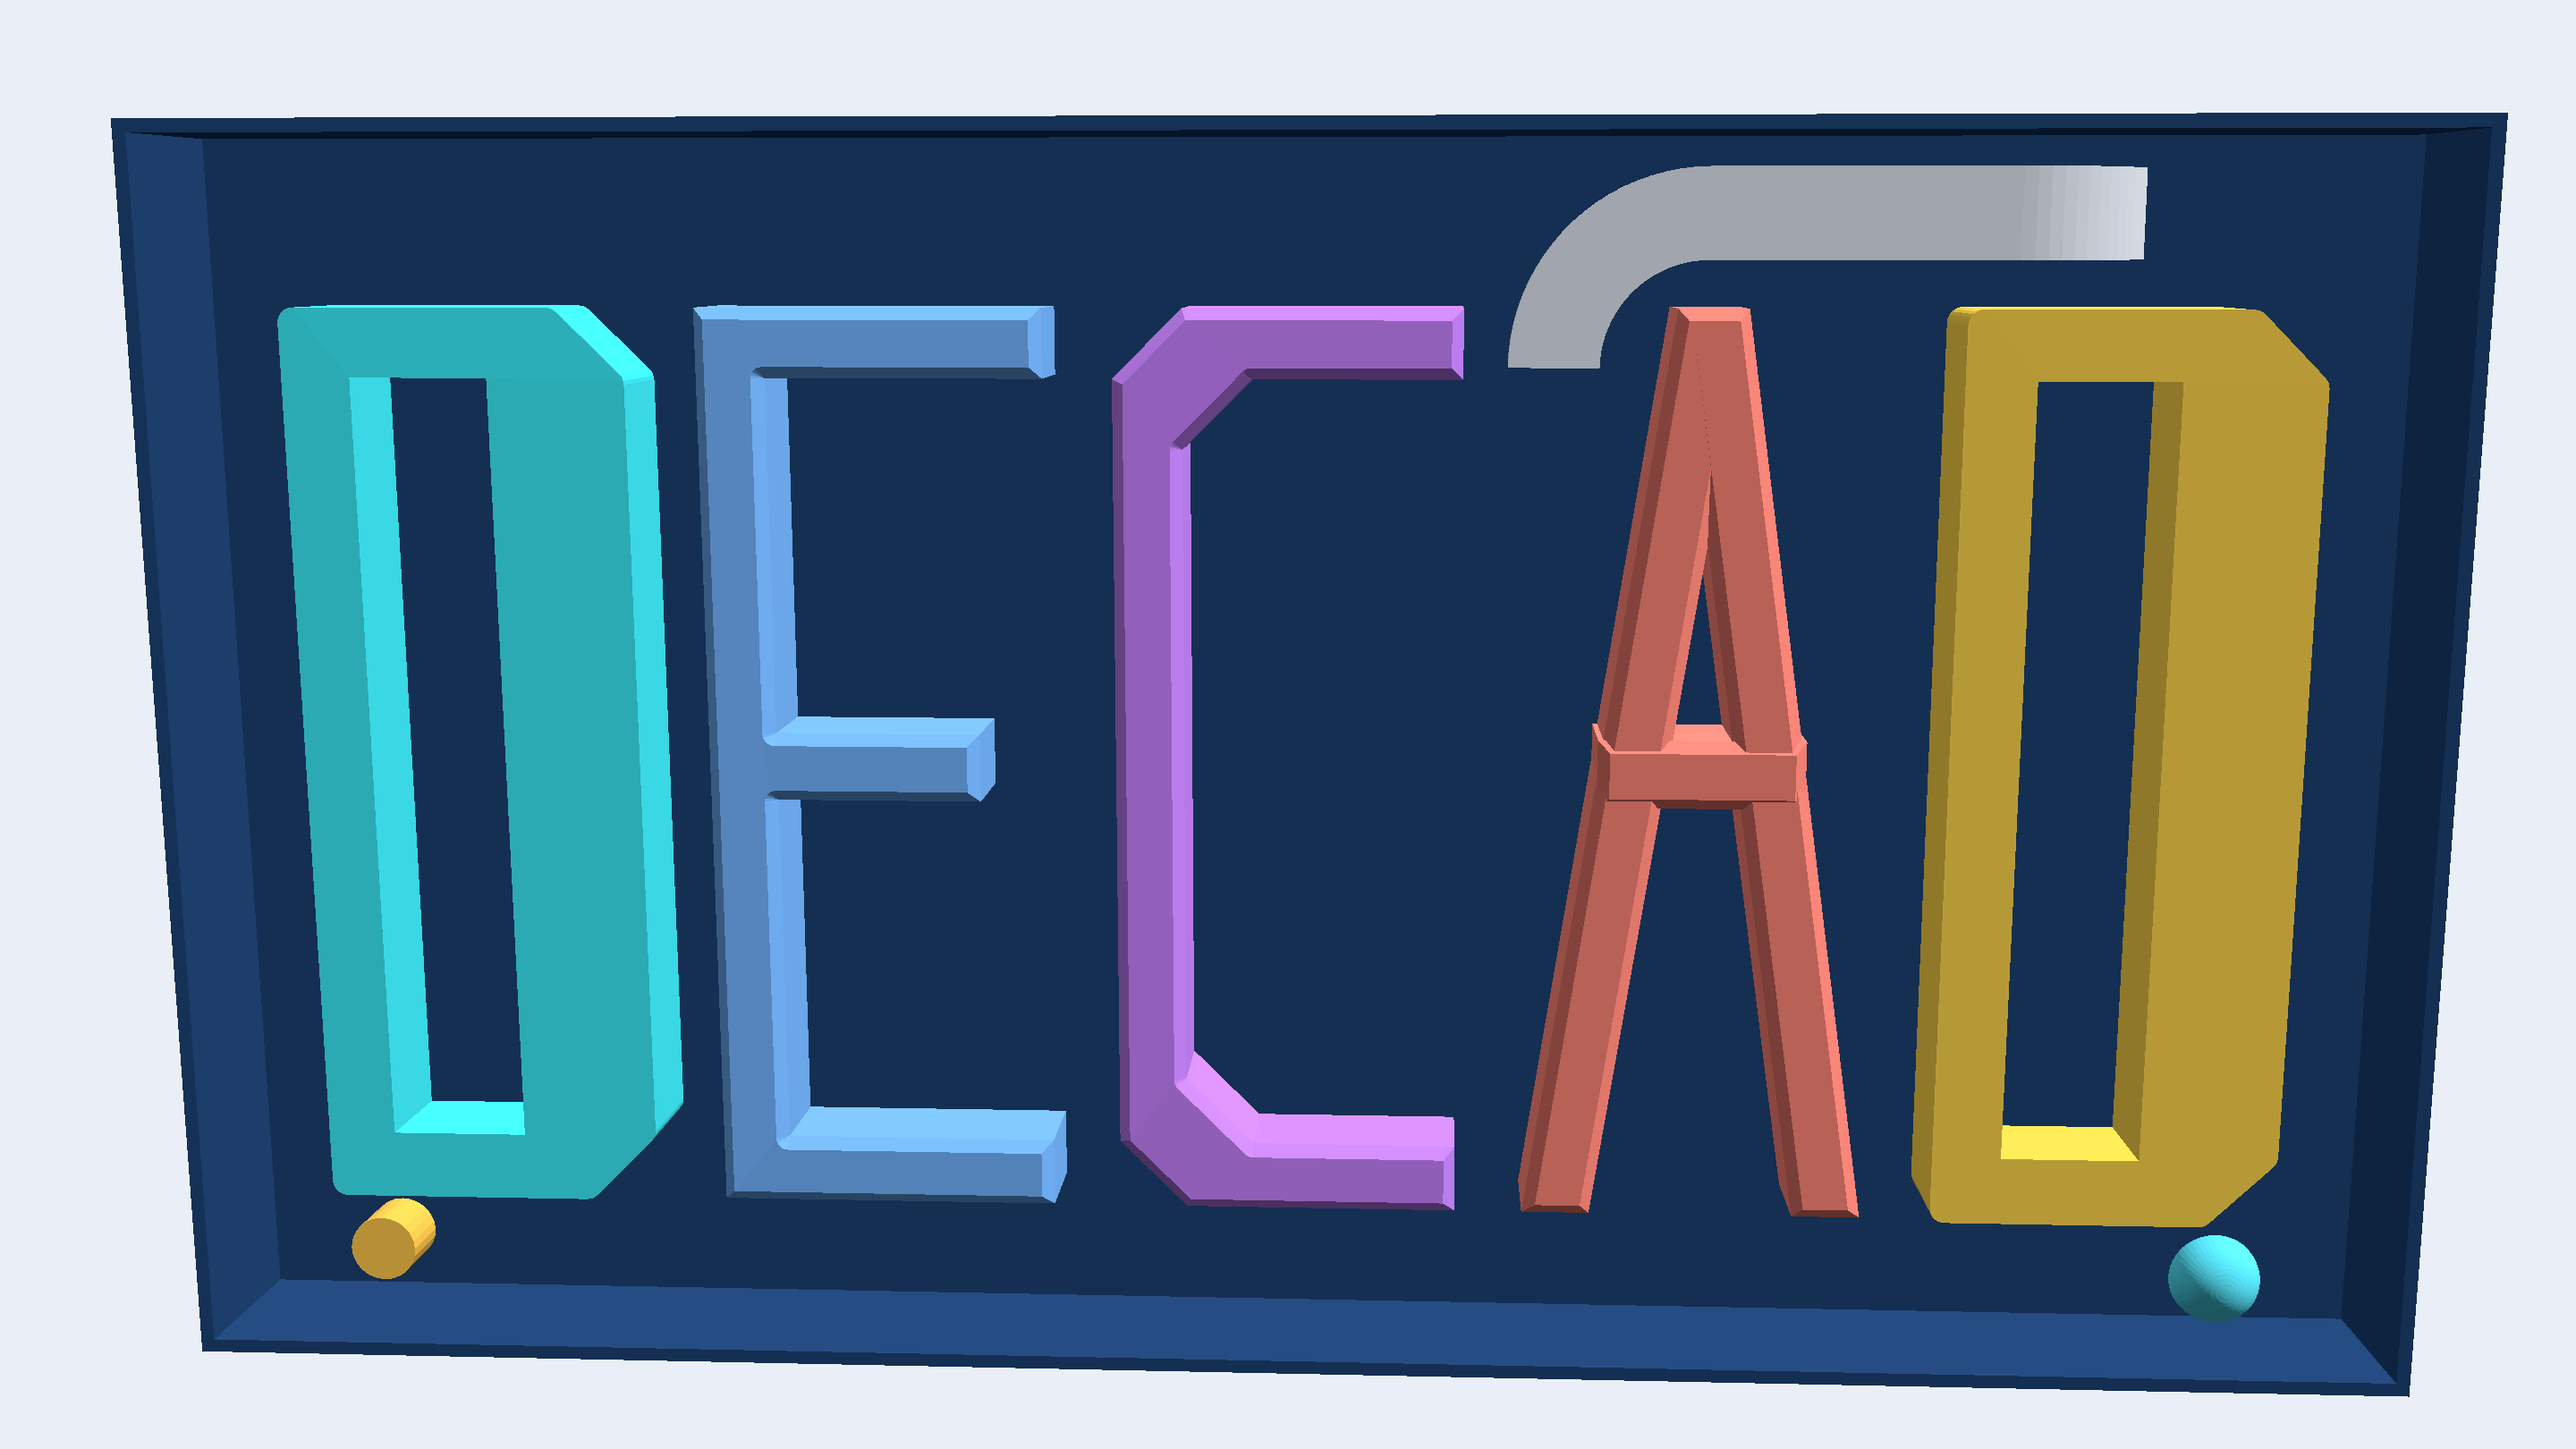
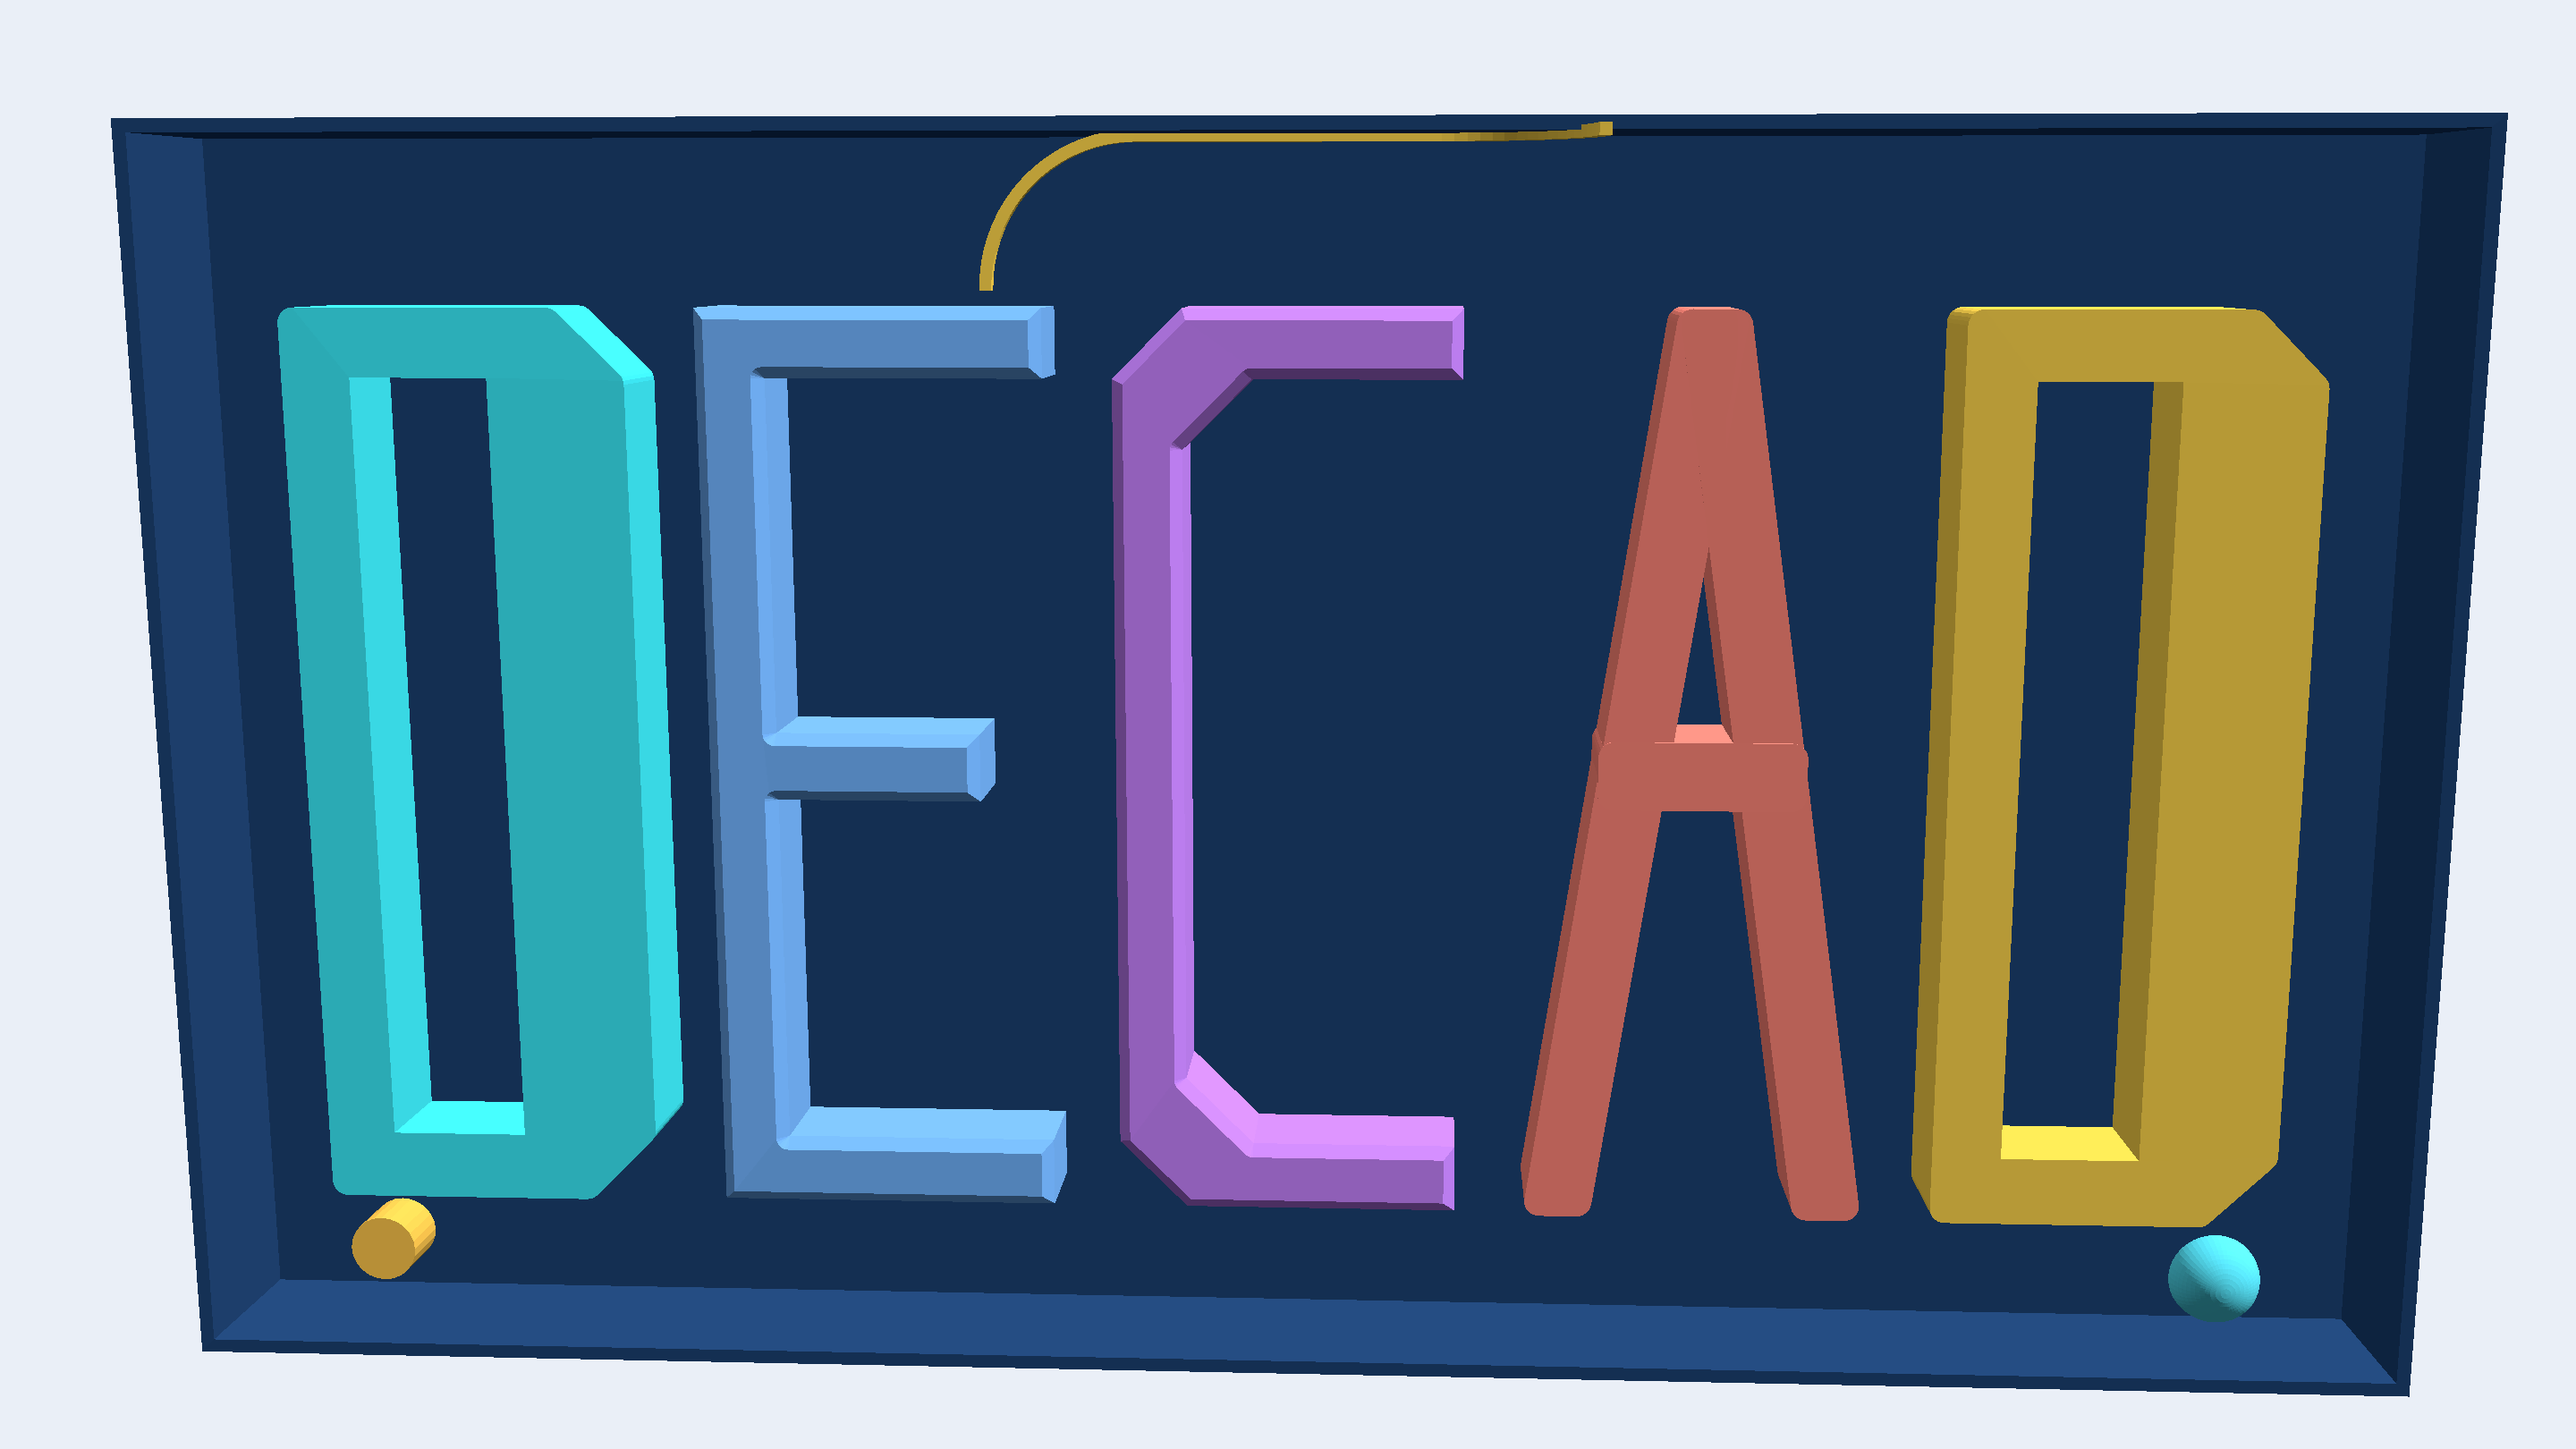
fix hero rail placement and the A letter overlap

Changed region(s): [[0.4062, 0.0617, 0.8438, 0.8642], [0.375, 0.1235, 0.4062, 0.1852]]

diff --git a/_gallery/hero.go b/_gallery/hero.go
@@ -30,14 +30,22 @@ const (
 	// The swept rail reuses sweepShot's own proven path shape (see
 	// heroRailModels) exactly, moved by translation alone — a rotation- and
 	// scale-free shift keeps every tangent match Sweep's P5 join gate found
-	// exact. Only the rendered profile is drawn narrower than sweepShot's own
-	// 12mm square (railProfileHalf below): the profile's size plays no part
-	// in Sweep's own path validation, and a narrower rail is what clears both
-	// the letters' top (Z=60) and the plate's own top edge (Z=84) alongside
-	// the path's own 20mm rise. The rail sits in the gap above "C" and "A" as
-	// a corner accent rather than spanning the full width.
-	railShiftX      = 75.0
-	railShiftZ      = 52.0
+	// exact. The rendered profile is drawn narrower than sweepShot's own
+	// 12mm square, in BOTH dimensions (railProfileHalf below): the profile's
+	// size plays no part in Sweep's own path validation, and a slender rail
+	// is what fits the whole shape — the arc's own 20mm rise plus the second
+	// arc's 20mm reach — inside the plate. railShiftZ keeps even the lowest
+	// point of the first arc above the letters' own top (Z=60), so the rail
+	// clears every letter by height alone rather than by hunting for a gap
+	// between letters no gap is wide enough for. railShiftX centers the rail
+	// over the wordmark. The second arc bends toward the camera (negative Y)
+	// rather than away from it: bending away crosses into the shelled
+	// plate's own solid back wall within its 20mm reach, and the wall
+	// occludes whatever is behind it, cutting the rail's own silhouette off
+	// mid-curve. Nothing solid stands in front of the plate's open face, so
+	// the same 20mm reach toward the camera clears cleanly.
+	railShiftX      = 0.0
+	railShiftZ      = 62.0
 	railProfileHalf = 0.8
 
 	// studRadius is the revolved dome accent's radius.
@@ -47,15 +55,31 @@ const (
 type letter struct {
 	color  solidlens.Color
 	shapes [][][]point
+	// chamferCap is true for a letter whose shapes should get a cap-loop
+	// chamfer instead of a lateral fillet. It is a per-LETTER choice, not a
+	// per-shape one: A's three strokes (aLeft, aRight, aBar) are each a
+	// single, hole-free loop, but the crossbar's own rectangle overlaps each
+	// leg's trapezoid — both occupy the same X range at crossbar height AND
+	// the same Y depth, by the original (pre-hero-rework) design of these
+	// three shapes. Two bodies that already coincide there is not itself a
+	// defect; it only became visible once each stroke got its OWN
+	// independent cap-loop chamfer: the two bevelled cap faces are different
+	// sloped surfaces at that shared depth, so whichever one the renderer
+	// resolves as farther back shows a sliver of its slope past the nearer
+	// one's edge. A lateral fillet never touches the cap face's interior, so
+	// it never exposes this — the same reason D (a hole-bearing single
+	// shape) keeps a fillet instead of a chamfer.
+	chamferCap bool
 }
 
 // heroChordTolerance is the chord tolerance the hero shot tessellates at
 // unless -chord overrides it.
 const heroChordTolerance = 0.02
 
-// railColor is the swept rail's accent color, distinct from every letter and
-// from the two remaining boss accents.
-var railColor = solidlens.RGB(0.74, 0.78, 0.86)
+// railColor is the swept rail's accent color: the same gold scene.go's
+// feature thumbnails use, so the rail reads as part of this gallery's own
+// palette instead of an off-palette grey accessory.
+var railColor = gold
 
 // heroRender is the README's masthead: the wordmark itself is decad geometry.
 func heroRender() imageRender {
@@ -69,14 +93,14 @@ func heroRender() imageRender {
 
 // heroScene builds the masthead from six of decad's features rather than
 // extrude and fillet alone: the backing plate is a shelled shadow-box whose
-// rim carries a real wall thickness; every hole-free letter (E, C and A's
-// three strokes) is extruded and has its whole front face bevelled by a
-// cap-loop chamfer, while D's outer+inner loop pair is extruded and has its
-// outside corners filleted instead (see extrudeLetterLoops for why the two
-// treatments differ); a swept rail — the same composite path sweepShot
-// proves, bending through more than one plane — sits in the gap above the
-// wordmark; and one accent is a revolved dome rather than a plain extruded
-// cylinder.
+// rim carries a real wall thickness; "E" and "C" are extruded and have their
+// whole front face bevelled by a cap-loop chamfer, while "D" (an outer+inner
+// loop pair) and "A" (three separately overlapping strokes) are extruded and
+// have their outside corners filleted instead (see letter.chamferCap and
+// extrudeLetterLoops for why each keeps the fillet); a swept rail — the same
+// composite path sweepShot proves, bending through more than one plane —
+// sits in the gap above the wordmark; and one accent is a revolved dome
+// rather than a plain extruded cylinder.
 func heroScene(ctx context.Context, chord units.Value) (solidlens.Scene, error) {
 	base, err := heroPlate(ctx, chord)
 	if err != nil {
@@ -86,7 +110,7 @@ func heroScene(ctx context.Context, chord units.Value) (solidlens.Scene, error) 
 
 	for li, item := range decadLetters() {
 		for si, shape := range item.shapes {
-			mesh, err := extrudeLetterLoops(ctx, shape, decad.Distance{D: units.Millimeters(14), Dir: decad.Along}, chord)
+			mesh, err := extrudeLetterLoops(ctx, shape, decad.Distance{D: units.Millimeters(14), Dir: decad.Along}, chord, item.chamferCap)
 			if err != nil {
 				return solidlens.Scene{}, fmt.Errorf("build letter %d shape %d: %w", li, si, err)
 			}
@@ -233,11 +257,11 @@ func decadLetters() []letter {
 	aBar := []point{{stroke, -stroke / 2}, {width - stroke, -stroke / 2}, {width - stroke, stroke / 2}, {stroke, stroke / 2}}
 
 	return []letter{
-		{color: solidlens.RGB(0.05, 0.85, 0.96), shapes: [][][]point{place(dOuter, dInner)}},
-		{color: solidlens.RGB(0.18, 0.47, 1), shapes: [][][]point{place(e)}},
-		{color: solidlens.RGB(0.58, 0.24, 1), shapes: [][][]point{place(c)}},
-		{color: solidlens.RGB(1, 0.25, 0.2), shapes: placeShapes([][]point{aLeft}, [][]point{aRight}, [][]point{aBar})},
-		{color: solidlens.RGB(1, 0.68, 0.08), shapes: [][][]point{place(dOuter, dInner)}},
+		{color: solidlens.RGB(0.05, 0.85, 0.96), shapes: [][][]point{place(dOuter, dInner)}, chamferCap: false},
+		{color: solidlens.RGB(0.18, 0.47, 1), shapes: [][][]point{place(e)}, chamferCap: true},
+		{color: solidlens.RGB(0.58, 0.24, 1), shapes: [][][]point{place(c)}, chamferCap: true},
+		{color: solidlens.RGB(1, 0.25, 0.2), shapes: placeShapes([][]point{aLeft}, [][]point{aRight}, [][]point{aBar}), chamferCap: false},
+		{color: solidlens.RGB(1, 0.68, 0.08), shapes: [][][]point{place(dOuter, dInner)}, chamferCap: false},
 	}
 }
 
@@ -262,17 +286,20 @@ func extrudeLoops(ctx context.Context, loops [][]point, extent decad.Extent, cho
 }
 
 // extrudeLetterLoops extrudes one letter shape, then either fillets its
-// outside vertical corners (a shape with an inner loop, i.e. D's outer+inner
-// pair) or bevels its whole front face with a cap-loop chamfer (every other
-// shape). The two treatments are mutually exclusive here, not by design
-// choice: chamfering D's cap loop panics decad's own cap-blend tessellator
-// (it indexes past a band slice, decad-side), so D keeps the plain filleted
-// cap instead of triggering it. Fillet-then-chamfer on the hole-free shapes
-// was tried too — it does not panic, but every setback tried (0.3mm through
-// 1.5mm) hit "the offset changes the section's topology; a trimmed-offset
-// kernel is not available" on at least one letter, so those shapes go
-// straight from extrude to chamfer with no fillet.
-func extrudeLetterLoops(ctx context.Context, loops [][]point, extent decad.Extent, chord units.Value) (*decad.Mesh, error) {
+// outside vertical corners (chamferCap false) or bevels its whole front face
+// with a cap-loop chamfer (chamferCap true) — the caller decides per LETTER,
+// not per shape; see letter.chamferCap for why D and A both keep the fillet.
+// Chamfering D's own cap loop (an outer+inner loop pair) panics decad's own
+// cap-blend tessellator regardless (it indexes past a band slice,
+// decad-side), so D's shape could not take a chamfer even loop-by-loop.
+// Fillet-then-chamfer on a hole-free shape was tried too — it does not
+// panic, but every setback tried (0.3mm through 1.5mm) hit "the offset
+// changes the section's topology; a trimmed-offset kernel is not available"
+// on at least one letter, so a chamfered shape goes straight from extrude to
+// chamfer with no fillet.
+func extrudeLetterLoops(
+	ctx context.Context, loops [][]point, extent decad.Extent, chord units.Value, chamferCap bool,
+) (*decad.Mesh, error) {
 	w := sketch.NewWorld()
 	// XZ makes the wordmark face the camera; extrusion then gives each stroke
 	// depth along Y without relying on a steep viewing angle.
@@ -289,7 +316,7 @@ func extrudeLetterLoops(ctx context.Context, loops [][]point, extent decad.Exten
 	if err != nil {
 		return nil, err
 	}
-	if len(loops) > 1 {
+	if !chamferCap {
 		// Round the exposed outside corners while keeping the counters and
 		// interior cut-ins crisp for a legible wordmark.
 		filleted, err := extruded.Fillet(ctx, decad.Edges(
@@ -373,7 +400,7 @@ func heroRailModels(ctx context.Context, chord units.Value) ([]solidlens.Model, 
 	if err != nil {
 		return nil, err
 	}
-	s, profile, err := sketchLoops(ctx, w, firstPlane, rectangle(x(-46), -railProfileHalf, x(-34), railProfileHalf))
+	s, profile, err := sketchLoops(ctx, w, firstPlane, rectangle(x(-40)-railProfileHalf, -railProfileHalf, x(-40)+railProfileHalf, railProfileHalf))
 	if err != nil {
 		return nil, err
 	}
@@ -385,8 +412,8 @@ func heroRailModels(ctx context.Context, chord units.Value) ([]solidlens.Model, 
 		},
 		decad.LineTo{End: r3.NewVec(x(20), 0, z(20))},
 		decad.ArcThrough{
-			Through: r3.NewVec(x(36), 8, z(20)),
-			End:     r3.NewVec(x(40), 20, z(20)),
+			Through: r3.NewVec(x(36), -8, z(20)),
+			End:     r3.NewVec(x(40), -20, z(20)),
 		},
 	)
 	if err != nil {
@@ -415,7 +442,7 @@ func heroRailModels(ctx context.Context, chord units.Value) ([]solidlens.Model, 
 	if err != nil {
 		return nil, err
 	}
-	middleSketch, middleProfile, err := sketchLoops(ctx, w, middlePlane, rectangle(-46, -railProfileHalf, -34, railProfileHalf))
+	middleSketch, middleProfile, err := sketchLoops(ctx, w, middlePlane, rectangle(-40-railProfileHalf, -railProfileHalf, -40+railProfileHalf, railProfileHalf))
 	if err != nil {
 		return nil, err
 	}
@@ -437,13 +464,13 @@ func heroRailModels(ctx context.Context, chord units.Value) ([]solidlens.Model, 
 	if err != nil {
 		return nil, err
 	}
-	lastSketch, lastProfile, err := sketchLoops(ctx, w, lastPlane, rectangle(-46, -railProfileHalf, -34, railProfileHalf))
+	lastSketch, lastProfile, err := sketchLoops(ctx, w, lastPlane, rectangle(-40-railProfileHalf, -railProfileHalf, -40+railProfileHalf, railProfileHalf))
 	if err != nil {
 		return nil, err
 	}
 	last, err := decad.New().Revolve(lastSketch, lastProfile, //nolint:contextcheck // Sweep and sketch solve above are cancellable.
-		decad.SketchLine{Start: decad.Point2{U: -39, V: 20}, End: decad.Point2{U: -41, V: 20}},
-		decad.AngleExtent{A: units.Degrees(90), Dir: decad.Along})
+		decad.SketchLine{Start: decad.Point2{U: -39, V: -20}, End: decad.Point2{U: -41, V: -20}},
+		decad.AngleExtent{A: units.Degrees(90), Dir: decad.Against})
 	if err != nil {
 		return nil, fmt.Errorf("build the rail's second span: %w", err)
 	}
